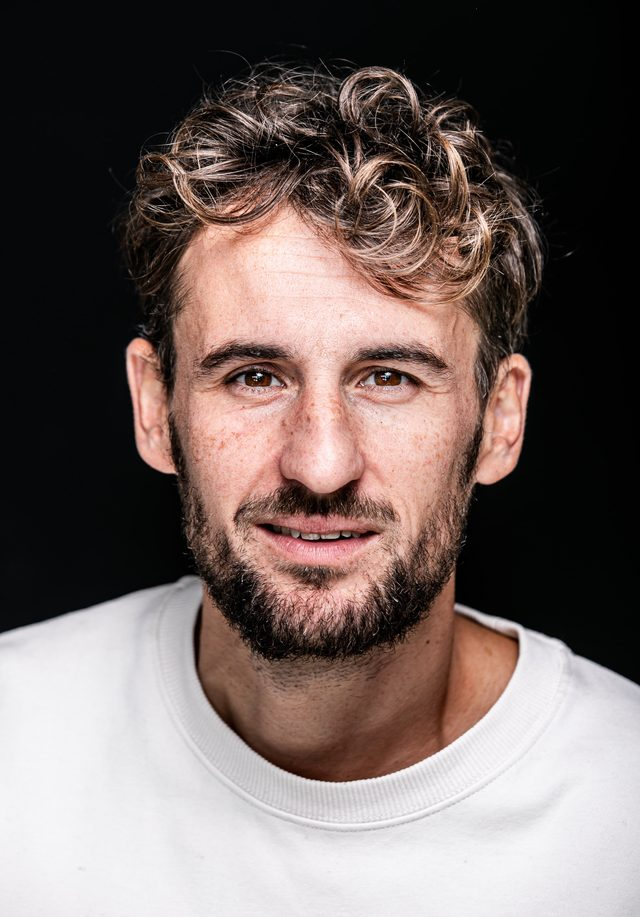
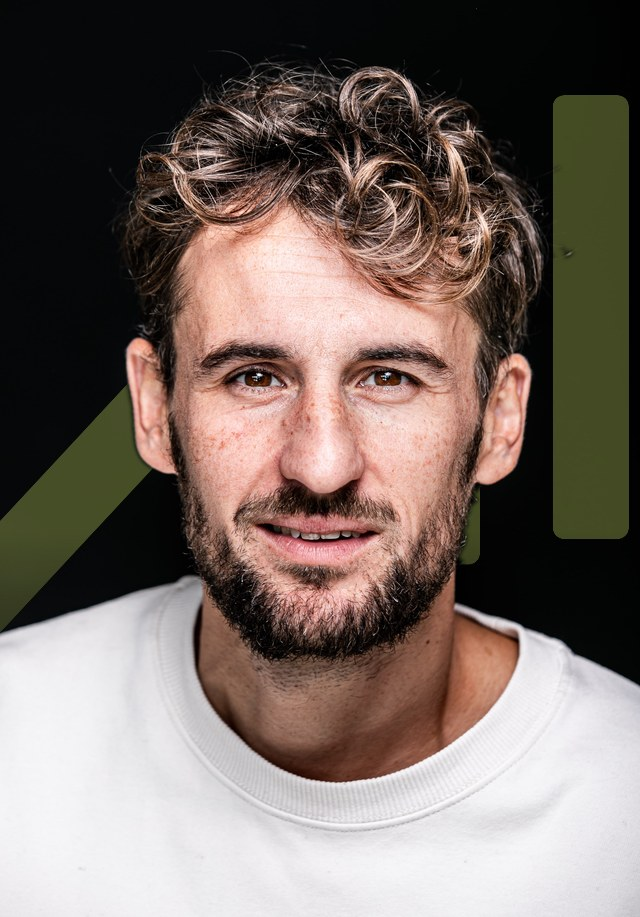
Cover: dominostenen in de foto gebakken (geen lagen-artefacten meer)

Changed region(s): [[0.8438, 0.0916, 1.0, 0.6107], [0.0, 0.4275, 0.25, 0.7023], [0.7188, 0.5191, 0.75, 0.6412]]

diff --git a/landingspagina/index.html b/landingspagina/index.html
@@ -459,8 +459,6 @@
           <div class="vel">
             <div class="zijde voor foto">
               <div class="b-rug">LEEFSTIJLLAB</div>
-              <svg class="b-watermerk" viewBox="0 0 551.54 551.54" preserveAspectRatio="xMidYMid meet"><use href="#domino"/></svg>
-              <img class="b-cutout" src="assets/roel-cutout.webp" alt="">
               <div class="b-grad"></div>
               <div class="c-hint">Klik om te bladeren →</div>
               <div class="b-onder">
@@ -694,8 +692,6 @@
       <div class="boekwrap">
         <div class="boek" style="transform: rotateY(12deg) rotateX(2deg); box-shadow: 24px 28px 50px rgba(41,39,56,.25), inset 8px 0 12px rgba(0,0,0,.28);">
           <div class="b-rug">LEEFSTIJLLAB</div>
-          <svg class="b-watermerk" viewBox="0 0 551.54 551.54" preserveAspectRatio="xMidYMid meet"><use href="#domino"/></svg>
-          <img class="b-cutout" src="assets/roel-cutout.webp" alt="">
           <div class="b-grad"></div>
           <div class="b-onder">
             <div class="b-titel">Wat als het<br>nu <em>wél</em> lukt?</div>